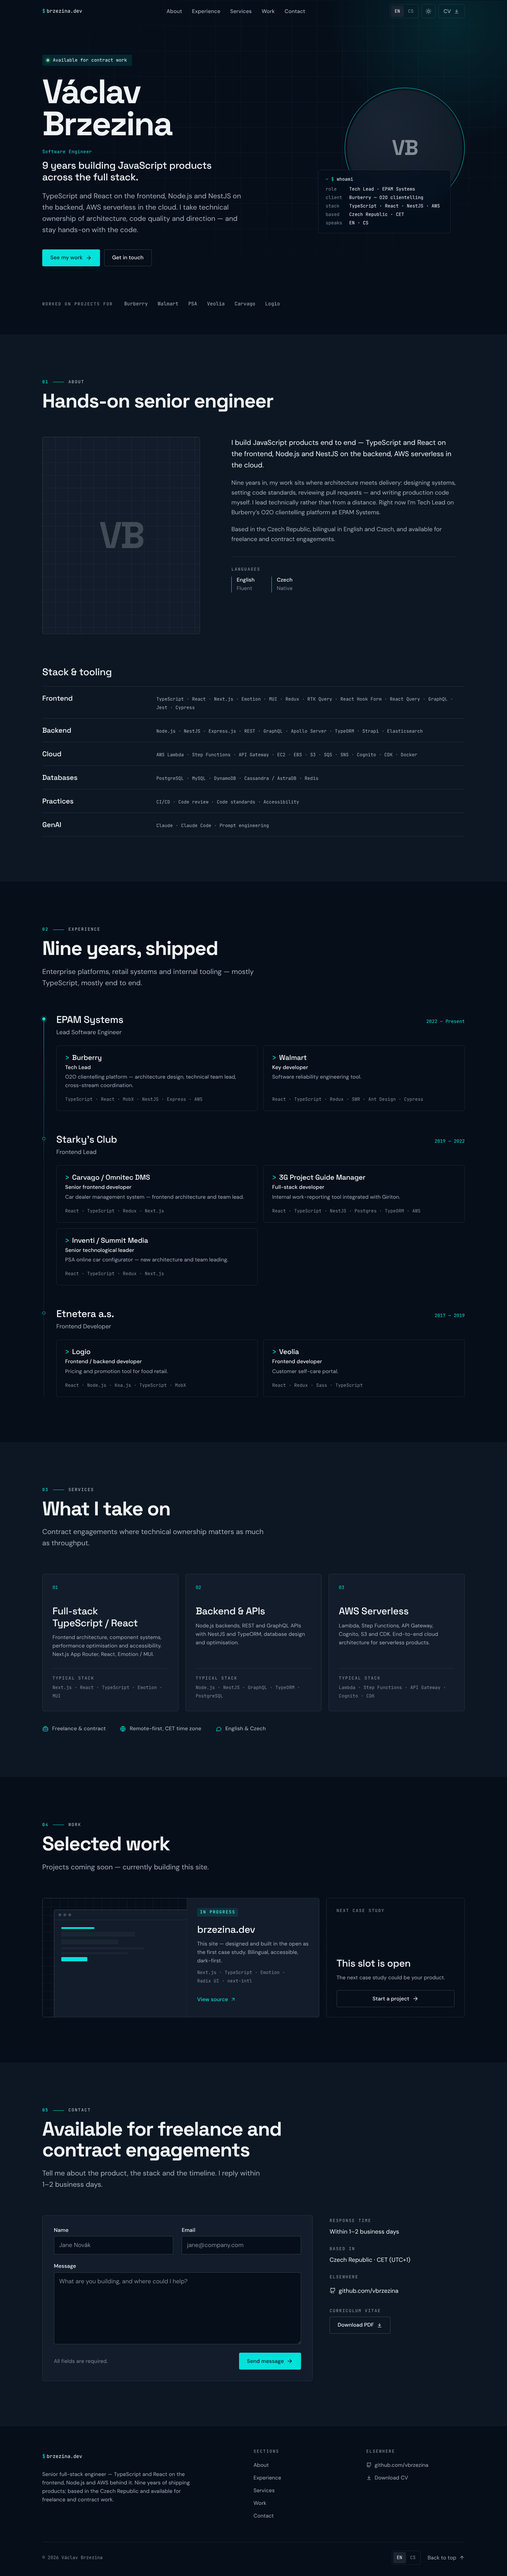
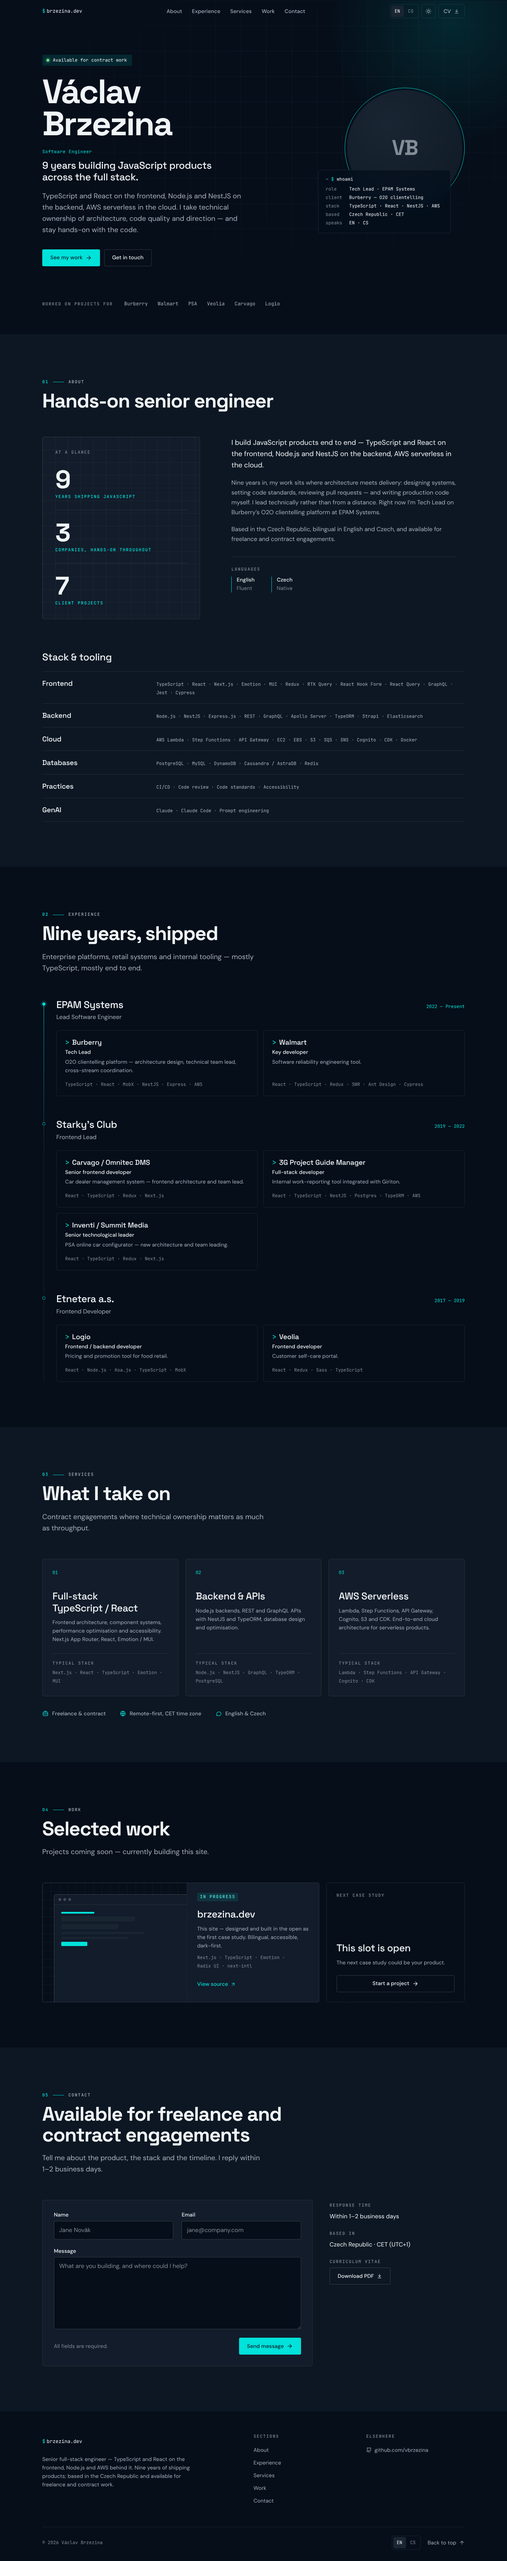
feat(ui): colour-only nav hover, one place per link, About facts panel
- Theme toggle and CV button hover by colour only (no fill), matching the
  language switch
- Footer keeps GitHub only; Contact sidebar keeps CV only (per the brief:
  GitHub in the footer, CV in Contact + nav)
- About: replace the second portrait with an "At a glance" panel — years,
  companies and client projects computed from src/data/experience.ts,
  ICU-pluralised in EN/CS
- Spec, case-study log and screenshots updated

Claude-Session: https://claude.ai/code/session_013mW6ZWY6digWVBj5YtAxDN

diff --git a/src/components/sections/About.tsx b/src/components/sections/About.tsx
@@ -5,6 +5,7 @@ import { useTranslations } from 'next-intl'
 import { Container, Section } from '@/components/layout'
 import { Reveal } from '@/components/Reveal'
 import { SectionHeader, StackList } from '@/components/ui'
+import { EXPERIENCE } from '@/data/experience'
 import { LANGUAGE_IDS, SKILL_GROUPS } from '@/data/skills'
 import { gridBackdrop } from '@/styles/backdrop'
 import { type } from '@/styles/typography'
@@ -23,25 +24,57 @@ const BioGrid = styled.div`
   }
 `
 
-/** Rectangular 4:5 slot sized for the real photo that replaces it. */
-const Portrait = styled.div`
-  position: relative;
-  aspect-ratio: 4 / 5;
+// Derived from the CV data so the figures can never drift from the Experience section.
+const CAREER_START = Math.min(...EXPERIENCE.map((e) => e.start))
+const FACTS = [
+  { id: 'years', value: new Date().getFullYear() - CAREER_START },
+  { id: 'companies', value: EXPERIENCE.length },
+  { id: 'projects', value: EXPERIENCE.reduce((n, e) => n + e.projects.length, 0) },
+] as const
+
+/** The hero carries the photo; this slot adds information instead of repeating a face. */
+const FactsPanel = styled.div`
+  display: flex;
+  flex-direction: column;
+  gap: 2rem;
   max-width: 28rem;
+  padding: clamp(1.5rem, 1rem + 2vw, 2.25rem);
   border: 1px solid ${({ theme }) => theme.colors.border};
   border-radius: ${({ theme }) => theme.radius.md};
   background-color: ${({ theme }) => theme.colors.surface};
   ${gridBackdrop(36)}
-  display: grid;
-  place-items: center;
-  overflow: hidden;
+`
 
-  span {
-    font-family: ${({ theme }) => theme.fonts.display};
-    font-weight: 700;
-    font-size: clamp(4rem, 3rem + 4vw, 7rem);
-    letter-spacing: -0.05em;
-    color: ${({ theme }) => theme.colors.borderStrong};
+const FactsLabel = styled.p`
+  ${type.monoEyebrow}
+  color: ${({ theme }) => theme.colors.fgTertiary};
+`
+
+const FactsList = styled.dl`
+  display: flex;
+  flex-direction: column;
+  gap: 1.75rem;
+
+  div {
+    display: flex;
+    flex-direction: column-reverse; /* number reads first; dt stays first in the DOM */
+    gap: 0.375rem;
+    padding-top: 1.75rem;
+    border-top: 1px solid ${({ theme }) => theme.colors.border};
+  }
+  div:first-of-type {
+    padding-top: 0;
+    border-top: none;
+  }
+  dd {
+    ${type.displayL}
+    font-size: clamp(3rem, 2.4rem + 2.4vw, 4.5rem);
+    line-height: 1;
+    color: ${({ theme }) => theme.colors.fg};
+  }
+  dt {
+    ${type.monoEyebrow}
+    color: ${({ theme }) => theme.colors.accent};
   }
 `
 
@@ -142,9 +175,17 @@ export function About() {
 
         <BioGrid>
           <Reveal delay={80}>
-            <Portrait role="img" aria-label={t('portraitLabel')}>
-              <span aria-hidden="true">VB</span>
-            </Portrait>
+            <FactsPanel>
+              <FactsLabel>{t('facts.label')}</FactsLabel>
+              <FactsList>
+                {FACTS.map((fact) => (
+                  <div key={fact.id}>
+                    <dt>{t(`facts.${fact.id}`, { count: fact.value })}</dt>
+                    <dd>{fact.value}</dd>
+                  </div>
+                ))}
+              </FactsList>
+            </FactsPanel>
           </Reveal>
 
           <Reveal delay={160}>

diff --git a/src/components/sections/Contact.tsx b/src/components/sections/Contact.tsx
@@ -215,19 +215,6 @@ const Aside = styled.dl`
   }
 `
 
-const AsideLink = styled.a`
-  display: inline-flex;
-  align-items: center;
-  gap: 0.5rem;
-  min-height: 2.75rem;
-  color: ${({ theme }) => theme.colors.fg};
-  transition: color ${({ theme }) => theme.motion.fast} ease;
-
-  &:hover {
-    color: ${({ theme }) => theme.colors.accent};
-  }
-`
-
 // ─── Component ────────────────────────────────────────────────────────────────
 
 export function Contact() {
@@ -383,15 +370,6 @@ export function Contact() {
               <div>
                 <dt>{t('sidebar.basedLabel')}</dt>
                 <dd>{t('sidebar.basedValue')}</dd>
-              </div>
-              <div>
-                <dt>{t('sidebar.elsewhereLabel')}</dt>
-                <dd>
-                  <AsideLink href={site.githubUrl} target="_blank" rel="noopener noreferrer">
-                    <Icon name="github" size={18} />
-                    {site.githubLabel}
-                  </AsideLink>
-                </dd>
               </div>
               <div>
                 <dt>{t('sidebar.cvLabel')}</dt>

diff --git a/src/components/ui/IconButton.tsx b/src/components/ui/IconButton.tsx
@@ -14,12 +14,11 @@ export const IconButton = styled.button`
   color: ${({ theme }) => theme.colors.fgSecondary};
   cursor: pointer;
   transition:
-    background-color ${({ theme }) => theme.motion.fast} ease,
     color ${({ theme }) => theme.motion.fast} ease,
     transform 100ms ease-out;
 
+  /* Colour-only hover, same as the language switch segments. */
   &:hover {
-    background: ${({ theme }) => theme.colors.raised};
     color: ${({ theme }) => theme.colors.fg};
   }
 

diff --git a/src/components/layout/SiteFooter.tsx b/src/components/layout/SiteFooter.tsx
@@ -107,12 +107,6 @@ export function SiteFooter() {
                   {site.githubLabel}
                 </FooterLink>
               </li>
-              <li>
-                <FooterLink href={site.cvUrl} download>
-                  <Icon name="download" size={16} />
-                  {t('downloadCv')}
-                </FooterLink>
-              </li>
             </LinkList>
           </div>
         </Top>

diff --git a/src/components/ui/Button.tsx b/src/components/ui/Button.tsx
@@ -69,7 +69,7 @@ const StyledButton = styled('button', {
           background: transparent;
           color: ${c.fgSecondary};
           border-color: ${c.border};
-          &:hover:not(:disabled) { background: ${c.raised}; color: ${c.fg}; }
+          &:hover:not(:disabled) { color: ${c.fg}; }
         `
       case 'ghost':
         return `

diff --git a/docs/design/redesign-2026-10.md b/docs/design/redesign-2026-10.md
@@ -121,7 +121,7 @@ Only `transform` and `opacity` are animated for movement. No looping animation a
 
 | Component | Spec |
 |-----------|------|
-| **Button** | Variants `primary` (accent fill), `secondary` (transparent, `border-strong`, hover → `raised`), `ghost` (no border, `fg-secondary`, hover → `accent-subtle`). Sizes `md` (48px, 4px radius) and `sm` (40px, 6px radius — nav CV, matching the icon button and locale switch). Variant `subtle` (hairline border, `fg-secondary`, hover → `raised` + `fg`) mirrors IconButton exactly — used for the nav CV button so every nav control reacts the same. Optional leading/trailing icon. Focus: 2px accent outline, 2px offset. `asChild` for links. One primary button per view. |
+| **Button** | Variants `primary` (accent fill), `secondary` (transparent, `border-strong`, hover → `raised`), `ghost` (no border, `fg-secondary`, hover → `accent-subtle`). Sizes `md` (48px, 4px radius) and `sm` (40px, 6px radius — nav CV, matching the icon button and locale switch). Variant `subtle` (hairline border, `fg-secondary`, hover → `fg`, colour only) mirrors IconButton exactly — used for the nav CV button so every nav control reacts the same. Optional leading/trailing icon. Focus: 2px accent outline, 2px offset. `asChild` for links. One primary button per view. |
 | **SectionHeader** | `NN —— LABEL` eyebrow (number + rule in accent, label in `fg-secondary`) → h2 `displayL`. Optional lead directly below the heading (max 40rem). One left-aligned reading column at every width — eyebrow → heading → lead — so the eye never jumps across the page. |
 | **StatusPill** | `accent-subtle` fill, success dot with soft glow, `monoS` label. Static — no pulse. |
 | **StackList** | Mono, dot-separated (`TypeScript · React · NestJS`), wraps naturally, rendered as `<ul role="list">` with CSS separators — the explicit role keeps Safari/VoiceOver announcing it after the `list-style: none` reset (same on every styled list). Replaces boxed tags everywhere. |
@@ -129,7 +129,7 @@ Only `transform` and `opacity` are animated for movement. No looping animation a
 | **LocaleSwitch** | Segmented control (`EN | CS`) — selected segment on `raised`. Real `<a>` links to the locale route with `aria-current`, `hreflang`. |
 | **ThemeToggle** | 40px icon button, SVG sun/moon, label states the action ("Switch to light theme"). Persists to `localStorage`; inline head script applies the theme before first paint. |
 | **Field** | Label above (never floating), 48px control on `canvas` with `border-strong`; focus → accent border + 3px `accent-subtle` halo; error → error border + message (`aria-invalid`, `aria-describedby`). Validated on blur, then live. |
-| **IconButton** | 44px square on mobile (touch target), 40px from `md` up so every nav control shares one height; hairline border, `md` radius; hover → `raised`; press → `scale(0.97)`, same as buttons (off under reduced motion). Shared by the theme toggle and the menu open/close buttons. |
+| **IconButton** | 44px square on mobile (touch target), 40px from `md` up so every nav control shares one height; hairline border, `md` radius; hover → `fg` text/icon colour only (no fill — same as the locale switch segments); press → `scale(0.97)`, same as buttons (off under reduced motion). Shared by the theme toggle and the menu open/close buttons. |
 | **Icons** | Inline SVG, 20px, 1.75 stroke, `currentColor` (Lucide geometry): sun, moon, menu, close, arrow-right, arrow-up-right, download, github, check. |
 
 ---
@@ -167,7 +167,7 @@ Only `transform` and `opacity` are animated for movement. No looping animation a
 - **Proof strip** (bottom of hero, no rule): `WORKED ON PROJECTS FOR` eyebrow + `Burberry · Walmart · PSA · Veolia · Carvago · Logio` in `monoBody`. Worded as *projects for* because these were clients of EPAM, Starky's Club and Etnetera, not direct engagements — the big names stay, the claim stays accurate.
 
 ### 01 About — "Hands-on senior engineer"
-- 5/7 split. Left: 4:5 portrait placeholder (surface, grid texture, `VB` monogram, `role="img"` with descriptive label). Right: first paragraph in `bodyL` fg (the lede), then two `bodyM` fg-secondary paragraphs, then a languages `<dl>`: **English** Fluent · **Czech** Native.
+- 5/7 split. Left: an **At a glance** panel (surface, grid texture) with three figures computed from `src/data/experience.ts` — years shipping (current year − earliest start), companies, client projects — big `displayL` numbers over accent mono labels, ICU-pluralised in EN/CS. The hero carries the one photo; this slot adds information instead of repeating a face (a second, candid photo can replace it later). Right: first paragraph in `bodyL` fg (the lede), then two `bodyM` fg-secondary paragraphs, then a languages `<dl>`: **English** Fluent · **Czech** Native.
 - **Stack & tooling** (h3): a six-row table. Category in `titleM` on the left (3 cols), StackList on the right (9 cols), hairline between rows. Content from the brief: Frontend, Backend, Cloud, Databases, Practices, GenAI.
 
 ### 02 Experience — "Nine years, shipped"
@@ -189,10 +189,11 @@ Replace the three TBD cards with **real, honest content**:
 ### 05 Contact — "Available for freelance and contract engagements"
 - Lead: "Tell me about the product, the stack and the timeline. I reply within 1–2 business days." (matches the brief; replaces "48 hours")
 - **Form panel (8 cols, surface):** Name + Email side by side (stacked on mobile), Message (min 8 rows). Footer row: "All fields are required." on the left, **Send message** primary on the right. Inline validation. After submit the panel swaps to a success state with a check icon and the reply-time promise.
-- **Aside (4 cols):** `<dl>` with mono labels — Response time · Based in · Elsewhere (GitHub) · Curriculum vitae (secondary button "Download PDF").
+- **Aside (4 cols):** `<dl>` with mono labels — Response time · Based in · Curriculum vitae (secondary button "Download PDF"). GitHub lives in the footer only.
 
 ### Footer
-- Logo + a two-sentence description (role, stack, years, location, availability) · Sections column · Elsewhere column.
+- Logo + a two-sentence description (role, stack, years, location, availability) · Sections column · Elsewhere (GitHub only — CV is in the nav and Contact).
+- Theme toggle lives in the header only (sticky, so always one click away); the language switch also appears in the footer bar, per the brief.
 - Bottom bar: `© 2026 Václav Brzezina` · LocaleSwitch · "Back to top ↑".
 
 ---
@@ -218,5 +219,5 @@ Replace the three TBD cards with **real, honest content**:
 
 - **Contact submission backend** — the form POSTs JSON `{ name, email, message }` to `site.contactEndpoint` (`/api/contact`). The handler doesn't exist yet (tickets 08/10), so submissions currently show the error state — message kept, GitHub offered — never a fake success.
 - **CV file** — every CV link points at `/cv.pdf` with `download`; the PDF still needs adding to `public/`.
-- **Real photography** — both portrait slots are placeholders sized for real photos (1:1 hero, 4:5 about).
+- **Real photography** — the hero portrait is a 1:1 placeholder for a real headshot.
 - **Figma parity** — finish the screens in the Figma file once MCP calls are available again (Pro plan or next month's quota).

diff --git a/.scratch/brzezina-dev-portfolio/case-study-log.md b/.scratch/brzezina-dev-portfolio/case-study-log.md
@@ -144,6 +144,14 @@ Running record of decisions, alternatives considered, and wrong turns for the br
 
 ---
 
+### 2026-10-12 — One photo, one place per link
+
+**Decision:** Hero keeps the only photo; the About slot became an "At a glance" panel (years, companies, client projects) computed from `src/data/experience.ts`. GitHub appears only in the footer, the CV only in the nav and Contact, the theme toggle only in the header.
+**Alternatives considered:** A second (candid) photo in About; keeping GitHub + CV in both the Contact sidebar and the footer.
+**Why:** A second photo repeats identity; the slot works harder carrying information a skimmer wants. Deriving the figures from the CV data means they can't drift from the Experience section. The link duplication was visible on one screen (Contact sidebar directly above the footer) — the original brief already assigned GitHub to the footer and the CV to Contact, so it was resolved by following the brief.
+
+---
+
 ### 2026-10-12 — Theme reset on locale switch: React owns `<html>`
 
 **Decision:** Removed `data-theme` from the server-rendered `<html>`; dark is the CSS default on `:root`. The colour-scheme provider re-applies the stored theme in a layout effect on every mount.
